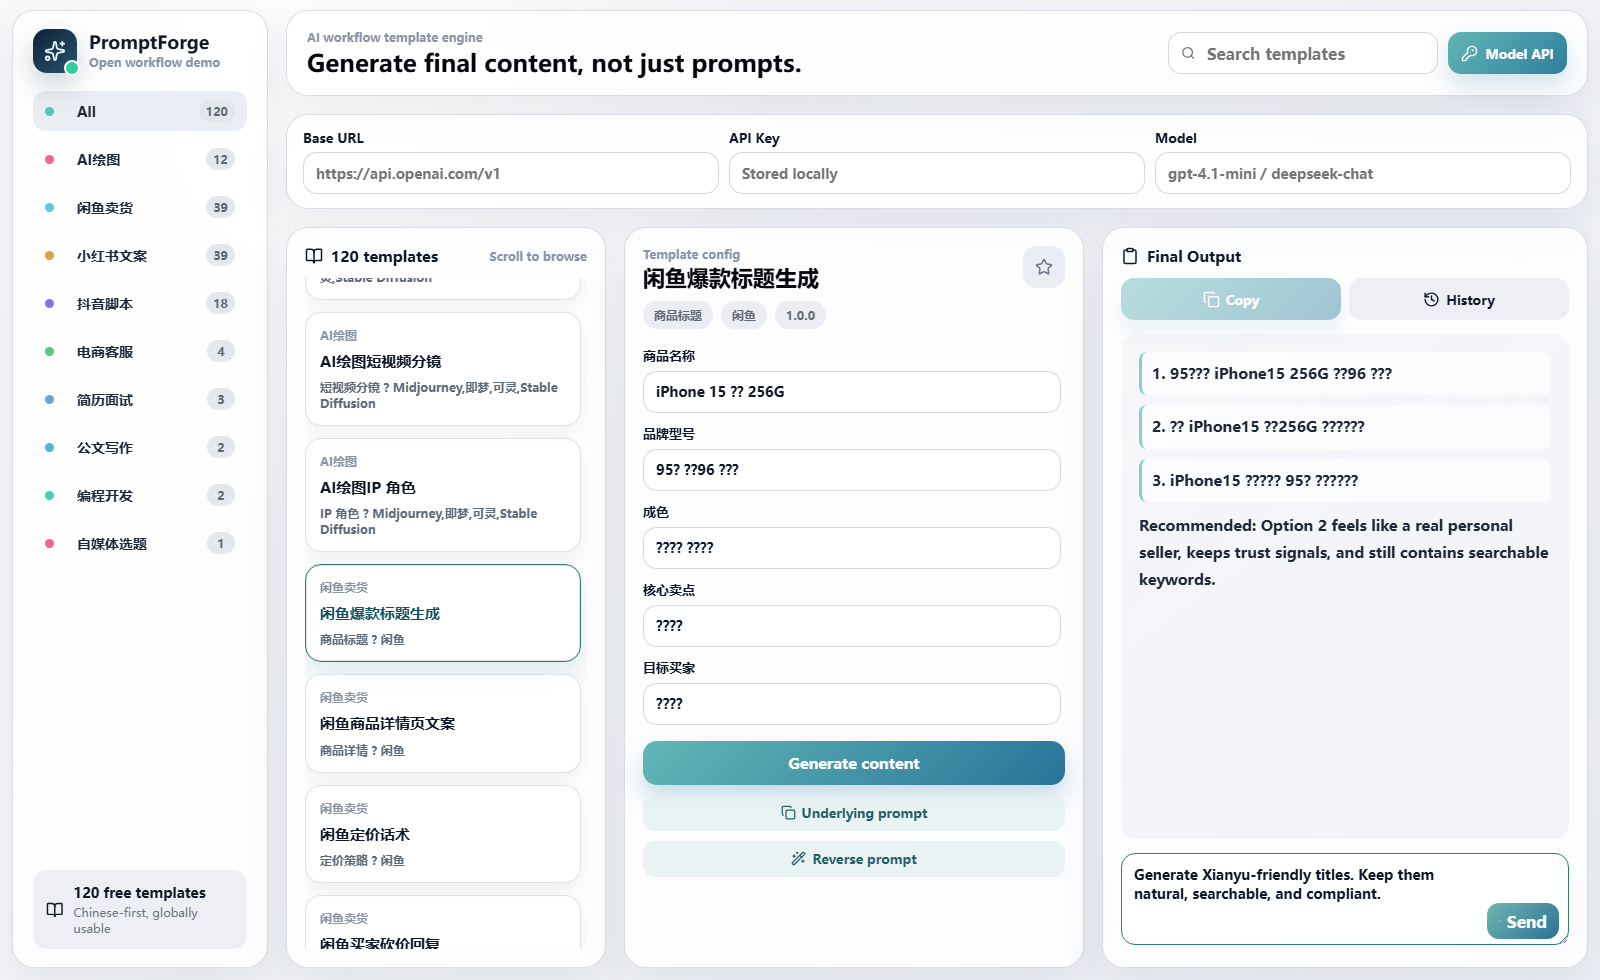
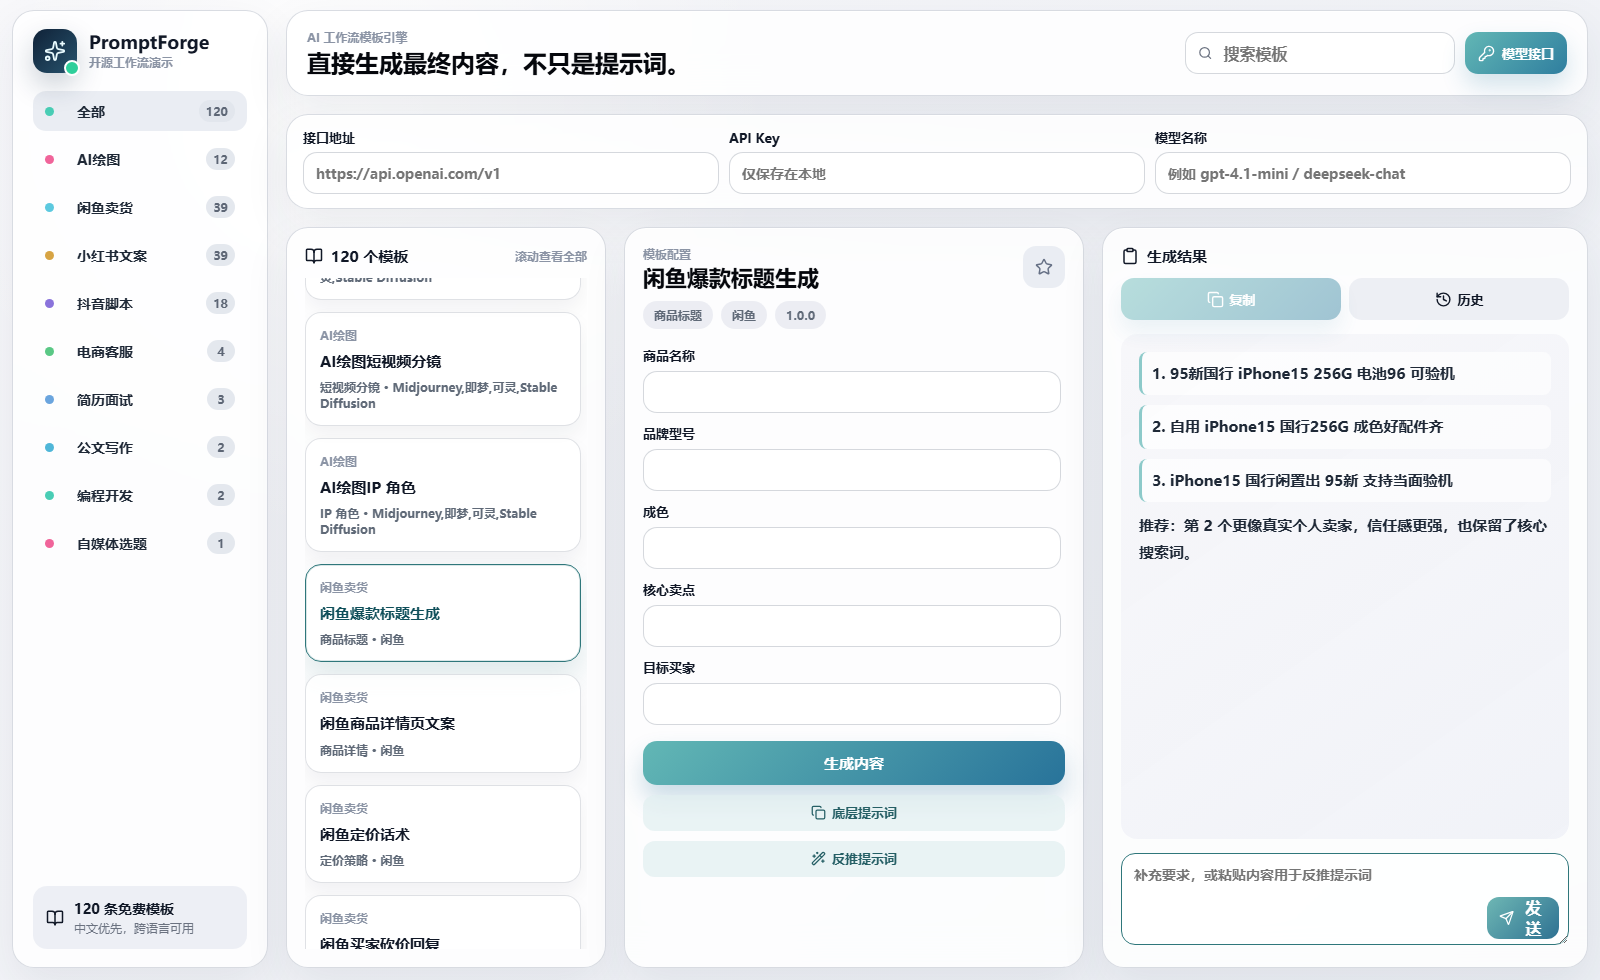
Fix Chinese screenshots and demo labels

diff --git a/web/src/main.jsx b/web/src/main.jsx
@@ -8,23 +8,23 @@ const defaultSettings = { baseUrl: "", apiKey: "", model: "" };
 const colors = ["#49cdb5", "#f0649a", "#5cc9df", "#d7a443", "#8a73db", "#5ac885", "#6aa5de", "#4fb6d8"];
 
 function buildPrompt(template, values, need) {
-  const inputs = template.variables.map((item) => "- " + item.label + ": " + (values[item.key] || "Not provided")).join("\n");
-  return template.prompt + "\n\n# User Inputs\n" + inputs + "\n\n# Extra Requirement\n" + (need || "None") + "\n\n# Output Rule\nReturn ready-to-use final content. Use the user's language when possible.";
+  const inputs = template.variables.map((item) => "- " + item.label + ": " + (values[item.key] || "请填写")).join("\n");
+  return template.prompt + "\n\n# 用户输入\n" + inputs + "\n\n# 补充要求\n" + (need || "无") + "\n\n# 输出要求\n直接输出用户可用的最终内容，优先使用用户输入的语言。";
 }
 
 function buildCompileRequest(template, values, need) {
-  return ["You are a prompt architect. Build one high-quality executable prompt from the selected workflow template and user inputs.", "Only output the final prompt. Do not explain.", "", buildPrompt(template, values, need)].join("\n");
+  return ["你是一名提示词整理师。请根据所选模板和用户输入，整理出一条高质量、可执行的底层提示词。", "只输出最终提示词，不要解释过程。", "", buildPrompt(template, values, need)].join("\n");
 }
 
 function buildContentRequest(compiledPrompt) {
-  return ["Execute the following prompt and output only the final usable content.", "Do not output the prompt itself. Do not explain your process.", "", compiledPrompt].join("\n");
+  return ["请严格执行下面的提示词，并只输出用户可直接使用的最终内容。", "不要输出提示词本身，也不要解释生成过程。", "", compiledPrompt].join("\n");
 }
 
 async function callModel(settings, prompt) {
   const endpoint = settings.baseUrl.replace(/\/$/, "") + "/chat/completions";
   const res = await fetch(endpoint, { method: "POST", headers: { "Content-Type": "application/json", Authorization: "Bearer " + settings.apiKey }, body: JSON.stringify({ model: settings.model, messages: [{ role: "user", content: prompt }], temperature: 0.7 }) });
   const text = await res.text();
-  if (!res.ok) throw new Error("Model API returned " + res.status + ": " + text.slice(0, 240));
+  if (!res.ok) throw new Error("模型接口返回 " + res.status + ": " + text.slice(0, 240));
   const data = JSON.parse(text);
   return data.choices?.[0]?.message?.content || "";
 }
@@ -44,7 +44,7 @@ function renderOutput(text) {
 
 function App() {
   const [query, setQuery] = useState("");
-  const [activeIndustry, setActiveIndustry] = useState("All");
+  const [activeIndustry, setActiveIndustry] = useState("全部");
   const [selectedId, setSelectedId] = useState(templates[0].id);
   const [values, setValues] = useState({});
   const [need, setNeed] = useState("");
@@ -56,12 +56,12 @@ function App() {
   const [showPrompt, setShowPrompt] = useState(false);
   const [copied, setCopied] = useState(false);
 
-  const industries = useMemo(() => ["All", ...Array.from(new Set(templates.map((t) => t.industry)))], []);
+  const industries = useMemo(() => ["全部", ...Array.from(new Set(templates.map((t) => t.industry)))], []);
   const counts = useMemo(() => templates.reduce((map, item) => ({ ...map, [item.industry]: (map[item.industry] || 0) + 1 }), {}), []);
   const filtered = useMemo(() => {
     const q = query.trim().toLowerCase();
     return templates.filter((t) => {
-      const industryMatch = activeIndustry === "All" || t.industry === activeIndustry;
+      const industryMatch = activeIndustry === "全部" || t.industry === activeIndustry;
       const queryMatch = !q || [t.name, t.industry, t.scenario, t.platform, ...(t.tags || [])].join(" ").toLowerCase().includes(q);
       return industryMatch && queryMatch;
     });
@@ -83,7 +83,7 @@ function App() {
   const generate = async () => {
     setRunning(true); setError(""); setOutput(""); setCompiledPrompt("");
     try {
-      if (!settings.baseUrl || !settings.apiKey || !settings.model) throw new Error("Please configure Base URL, API Key and model first.");
+      if (!settings.baseUrl || !settings.apiKey || !settings.model) throw new Error("请先配置 Base URL、API Key 和模型名。");
       const first = await callModel(settings, buildCompileRequest(selected, values, need));
       setCompiledPrompt(first);
       const final = await callModel(settings, buildContentRequest(first));
@@ -94,8 +94,8 @@ function App() {
   const reversePrompt = async () => {
     setRunning(true); setError(""); setOutput("");
     try {
-      if (!settings.baseUrl || !settings.apiKey || !settings.model) throw new Error("Please configure Base URL, API Key and model first.");
-      const prompt = "Reverse-engineer a reusable prompt from this content. Output: reusable prompt, variables, style notes, and optimization suggestions.\n\nContent:\n" + need;
+      if (!settings.baseUrl || !settings.apiKey || !settings.model) throw new Error("请先配置 Base URL、API Key 和模型名。");
+      const prompt = "请根据下面的成品内容反推出一条可复用提示词，并输出：可复用提示词、变量字段、风格分析、优化建议。\n\n内容：\n" + need;
       const result = await callModel(settings, prompt);
       setOutput(cleanMarkdown(result));
     } catch (err) { setError(err.message || String(err)); } finally { setRunning(false); }
@@ -103,27 +103,27 @@ function App() {
 
   return <main className="app-shell">
     <aside className="sidebar glass-panel">
-      <div className="brand"><div className="brand-mark"><Sparkles size={22}/></div><div><h1>PromptForge</h1><p>Open workflow demo</p></div></div>
-      <nav className="industry-nav">{industries.map((industry, index) => <button key={industry} className={activeIndustry === industry ? "nav-item active" : "nav-item"} onClick={() => setActiveIndustry(industry)}><i className="color-dot" style={{ background: colors[index % colors.length] }} /> <span>{industry}</span><strong>{industry === "All" ? templates.length : counts[industry]}</strong></button>)}</nav>
-      <div className="side-card"><BookOpen size={18}/><div><strong>120 free templates</strong><span>Chinese-first, globally usable</span></div></div>
+      <div className="brand"><div className="brand-mark"><Sparkles size={22}/></div><div><h1>PromptForge</h1><p>开源工作流演示</p></div></div>
+      <nav className="industry-nav">{industries.map((industry, index) => <button key={industry} className={activeIndustry === industry ? "nav-item active" : "nav-item"} onClick={() => setActiveIndustry(industry)}><i className="color-dot" style={{ background: colors[index % colors.length] }} /> <span>{industry}</span><strong>{industry === "全部" ? templates.length : counts[industry]}</strong></button>)}</nav>
+      <div className="side-card"><BookOpen size={18}/><div><strong>120 条免费模板</strong><span>中文优先，跨语言可用</span></div></div>
     </aside>
 
     <section className="workspace">
       <header className="topbar glass-panel">
-        <div><p className="section-label">AI workflow template engine</p><h2>Generate final content, not just prompts.</h2></div>
-        <div className="toolbar"><label className="search-box"><Search size={16}/><input value={query} onChange={(e)=>setQuery(e.target.value)} placeholder="Search templates" /></label><button className="model-entry-button"><KeyRound size={17}/><span>{settings.model ? settings.model : "Model API"}</span></button></div>
+        <div><p className="section-label">AI 工作流模板引擎</p><h2>直接生成最终内容，不只是提示词。</h2></div>
+        <div className="toolbar"><label className="search-box"><Search size={16}/><input value={query} onChange={(e)=>setQuery(e.target.value)} placeholder="搜索模板" /></label><button className="model-entry-button"><KeyRound size={17}/><span>{settings.model ? settings.model : "模型接口"}</span></button></div>
       </header>
 
       <section className="model-settings glass-panel">
-        <label><span>Base URL</span><input placeholder="https://api.openai.com/v1" value={settings.baseUrl} onChange={(e)=>updateSetting("baseUrl", e.target.value)} /></label>
-        <label><span>API Key</span><input placeholder="Stored locally" type="password" value={settings.apiKey} onChange={(e)=>updateSetting("apiKey", e.target.value)} /></label>
-        <label><span>Model</span><input placeholder="gpt-4.1-mini / deepseek-chat" value={settings.model} onChange={(e)=>updateSetting("model", e.target.value)} /></label>
+        <label><span>接口地址</span><input placeholder="https://api.openai.com/v1" value={settings.baseUrl} onChange={(e)=>updateSetting("baseUrl", e.target.value)} /></label>
+        <label><span>API Key</span><input placeholder="仅保存在本地" type="password" value={settings.apiKey} onChange={(e)=>updateSetting("apiKey", e.target.value)} /></label>
+        <label><span>模型名称</span><input placeholder="例如 gpt-4.1-mini / deepseek-chat" value={settings.model} onChange={(e)=>updateSetting("model", e.target.value)} /></label>
       </section>
 
       <div className="content-grid">
-        <section className="template-list glass-panel"><div className="panel-title template-list-title"><span><BookOpen size={18}/>{filtered.length} templates</span><small>Scroll to browse</small></div><div className="template-cards">{filtered.map((t) => <button key={t.id} onClick={()=>{setSelectedId(t.id); setValues({});}} className={selected.id === t.id ? "template-card selected" : "template-card"}><div className="card-head"><span>{t.industry}</span></div><strong>{t.name}</strong><p>{t.scenario} ? {t.platform}</p></button>)}</div></section>
-        <section className="composer glass-panel"><div className="selected-head"><div><p className="section-label">Template config</p><h3>{selected.name}</h3></div><button className="favorite"><Star size={18}/></button></div><div className="meta-row"><span>{selected.scenario}</span><span>{selected.platform}</span><span>{selected.version}</span></div><div className="form-grid">{selected.variables.map((v)=><label key={v.key} className="field"><span>{v.label}</span>{v.type === "textarea" ? <textarea value={values[v.key] || ""} onChange={(e)=>setValues({...values,[v.key]:e.target.value})} rows={3}/> : <input value={values[v.key] || ""} onChange={(e)=>setValues({...values,[v.key]:e.target.value})}/>}</label>)}</div><div className="composer-actions"><button className="composer-generate" onClick={generate} disabled={running}>{running ? "Generating" : "Generate content"}</button><button className="prompt-copy-link" onClick={()=>setShowPrompt(!showPrompt)}><Copy size={15}/><span>{showPrompt ? "Hide prompt" : "Underlying prompt"}</span></button><button className="prompt-copy-link" onClick={reversePrompt} disabled={running}><Wand2 size={15}/><span>Reverse prompt</span></button></div></section>
-        <section className="preview glass-panel"><div className="preview-head"><div className="panel-title"><Clipboard size={18}/><span>Final Output</span></div><div className="preview-actions"><button className="primary-action" onClick={copyOutput} disabled={!output && !compiledPrompt}>{copied ? <Check size={17}/> : <Copy size={17}/>}<span>{copied ? "Copied" : "Copy"}</span></button><button className="secondary-action"><History size={17}/><span>History</span></button></div></div><div className="model-result">{running ? <div className="generation-loading"><strong>Generating final content</strong><div className="generation-progress"><span /></div><p>Compiling the underlying prompt, then generating the final result.</p></div> : error ? <p className="error-text">{error}</p> : output ? <div className="formatted-output">{renderOutput(output)}</div> : <div className="result-empty"><Clipboard size={22}/><strong>Final content will appear here</strong><span>Fill in the template fields and generate ready-to-use content.</span></div>}{showPrompt && compiledPrompt ? <pre className="prompt-block">{compiledPrompt}</pre> : null}</div><label className="need-box"><textarea value={need} onChange={(e)=>setNeed(e.target.value)} placeholder="Extra requirement, or paste content here for reverse prompt" rows={3}/><button className="send-action" onClick={generate} disabled={running}><Send size={18}/><span>Send</span></button></label></section>
+        <section className="template-list glass-panel"><div className="panel-title template-list-title"><span><BookOpen size={18}/>{filtered.length} 个模板</span><small>滚动查看全部</small></div><div className="template-cards">{filtered.map((t) => <button key={t.id} onClick={()=>{setSelectedId(t.id); setValues({});}} className={selected.id === t.id ? "template-card selected" : "template-card"}><div className="card-head"><span>{t.industry}</span></div><strong>{t.name}</strong><p>{t.scenario} · {t.platform}</p></button>)}</div></section>
+        <section className="composer glass-panel"><div className="selected-head"><div><p className="section-label">模板配置</p><h3>{selected.name}</h3></div><button className="favorite"><Star size={18}/></button></div><div className="meta-row"><span>{selected.scenario}</span><span>{selected.platform}</span><span>{selected.version}</span></div><div className="form-grid">{selected.variables.map((v)=><label key={v.key} className="field"><span>{v.label}</span>{v.type === "textarea" ? <textarea value={values[v.key] || ""} onChange={(e)=>setValues({...values,[v.key]:e.target.value})} rows={3}/> : <input value={values[v.key] || ""} onChange={(e)=>setValues({...values,[v.key]:e.target.value})}/>}</label>)}</div><div className="composer-actions"><button className="composer-generate" onClick={generate} disabled={running}>{running ? "生成中" : "生成内容"}</button><button className="prompt-copy-link" onClick={()=>setShowPrompt(!showPrompt)}><Copy size={15}/><span>{showPrompt ? "隐藏底层提示词" : "底层提示词"}</span></button><button className="prompt-copy-link" onClick={reversePrompt} disabled={running}><Wand2 size={15}/><span>反推提示词</span></button></div></section>
+        <section className="preview glass-panel"><div className="preview-head"><div className="panel-title"><Clipboard size={18}/><span>生成结果</span></div><div className="preview-actions"><button className="primary-action" onClick={copyOutput} disabled={!output && !compiledPrompt}>{copied ? <Check size={17}/> : <Copy size={17}/>}<span>{copied ? "已复制" : "复制"}</span></button><button className="secondary-action"><History size={17}/><span>历史</span></button></div></div><div className="model-result">{running ? <div className="generation-loading"><strong>正在生成最终内容</strong><div className="generation-progress"><span /></div><p>正在先整理底层提示词，再生成最终内容。</p></div> : error ? <p className="error-text">{error}</p> : output ? <div className="formatted-output">{renderOutput(output)}</div> : <div className="result-empty"><Clipboard size={22}/><strong>最终内容会显示在这里</strong><span>填写模板参数后，生成可直接使用的成品内容。</span></div>}{showPrompt && compiledPrompt ? <pre className="prompt-block">{compiledPrompt}</pre> : null}</div><label className="need-box"><textarea value={need} onChange={(e)=>setNeed(e.target.value)} placeholder="补充要求，或粘贴内容用于反推提示词" rows={3}/><button className="send-action" onClick={generate} disabled={running}><Send size={18}/><span>发送</span></button></label></section>
       </div>
     </section>
   </main>;